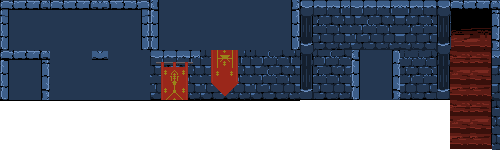
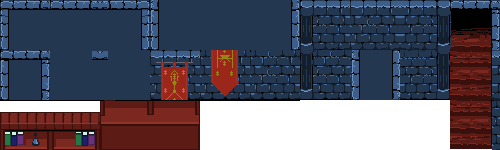
Added Cabinets and updated some other sprites.

Changed region(s): [[0.0, 0.6667, 0.42, 1.0]]

diff --git a/vince_mckeown/RPG/js/World.js b/vince_mckeown/RPG/js/World.js
@@ -10,8 +10,8 @@ var roomGrid =
       11,32,32,37,32, 0, 0, 0, 0,32,32,37,32,32,32,32,15, 0, 0, 0, 0, 0, 0, 0, 0, 0, 0, 0, 0, 0, 0, 9,
       11,40, 0, 0, 0, 0, 0, 0, 0, 0, 0, 0, 0, 0, 0, 0,15, 0, 0, 0, 0, 0, 0, 0, 0, 0, 0, 0, 0, 0, 0, 9,
       11,41, 1, 1, 1, 1, 1,24, 1, 1, 1, 1, 1, 1, 1, 1, 1, 0, 0, 0, 0, 0, 0, 0, 0, 0, 0, 0, 0, 0, 0, 9,
-      11,42,23,23,23,23,23,25,23,23,23,23,23,23,23,23,23, 0, 0, 0, 0, 0, 0, 0, 0, 0, 0, 0, 0, 0, 0, 9,
-      11, 0, 0, 0, 0, 0, 0, 0, 0, 0, 0, 0, 0, 0, 0, 0, 0, 0, 0, 0, 0, 0, 0, 0, 0, 0, 0, 0, 0, 0, 0, 9,
+      11,42,43,44,23,23,23,25,23,23,23,23,23,23,23,23,23, 0, 0, 0, 0, 0, 0, 0, 0, 0, 0, 0, 0, 0, 0, 9,
+      11, 0,45,46, 0, 0, 0, 0, 0, 0, 0, 0, 0, 0, 0, 0, 0, 0, 0, 0, 0, 0, 0, 0, 0, 0, 0, 0, 0, 0, 0, 9,
       11, 0, 0, 0, 0, 0, 0, 0, 0, 0, 0, 0, 0, 0, 0, 0, 0, 0, 0, 0, 0, 0, 0, 0, 0, 0, 0, 0, 0, 0, 0, 9,
       11, 0, 0, 0, 0, 0, 0, 0, 0, 0, 0, 0, 0, 0, 0, 0, 0, 0, 0, 0, 0, 0, 0, 0, 0, 0, 0, 0, 0, 0, 0, 9,
       11, 0, 0, 0, 0, 0, 0, 0, 0, 0, 0, 0, 0, 0, 0, 0, 0, 0, 0, 0, 0, 0, 0, 0, 0, 0, 0, 0, 0, 0, 0, 9,
@@ -71,8 +71,10 @@ const TILE_PRISON_GATE_BOTTOM_OPEN = 39;
 const TILE_DUNGEON_STAIRS_TOP_1 = 40;
 const TILE_DUNGEON_STAIRS_MIDDLE_1 = 41;
 const TILE_DUNGEON_STAIRS_BOTTOM_1 = 42;
-
-
+const TILE_CABINET_1_TL = 43;
+const TILE_CABINET_1_TR = 44;
+const TILE_CABINET_1_BL = 45;
+const TILE_CABINET_1_BR = 46;
 
 function roomTileToIndex(tileCol, tileRow) {
   return (tileCol + ROOM_COLS*tileRow);
@@ -115,6 +117,11 @@ function tileTypeHasTransparency(checkTileType) {
           checkTileType == TILE_DOOR);
 }
 
+function tileTypeHasDungeonWall(checkTileType){
+  return (checkTileType == TILE_CABINET_1_TL ||
+          checkTileType == TILE_CABINET_1_TR);
+}
+
 function findTileAboveCurrent(currentTile) {
   let tileAbove = currentTile - ROOM_COLS
   return tileAbove;
@@ -142,6 +149,10 @@ function drawRoom() {
       if( tileTypeHasTransparency(tileTypeHere) ) {
         canvasContext.drawImage(tilePics[TILE_GROUND].img, tileLeftEdgeX, tileTopEdgeY);
       }
+      if( tileTypeHasDungeonWall(tileTypeHere) ) {
+        canvasContext.drawImage(tilePics[TILE_WALL_16].img,250,50, 50, 50, tileLeftEdgeX, tileTopEdgeY, 50, 50);
+      }
+
       canvasContext.drawImage(tilePics[tileTypeHere].img,tile_sx,tile_sy, 50, 50, tileLeftEdgeX, tileTopEdgeY, 50, 50);
       
       tileIndex++; // increment which index we're going to next check for in the room

diff --git a/vince_mckeown/RPG/js/ImageLoading.js b/vince_mckeown/RPG/js/ImageLoading.js
@@ -35,8 +35,8 @@ function loadImages() {
     {varName:playerPic, theFile:"warrior.png"},
   	{varName:goblinPic, theFile:"goblin.png"},
     {varName:ghostPic, theFile:"ghost.png"},
-    //ROW 1
     {tileType:TILE_GROUND, imgX: 0, imgY: 0, theFile:"world_ground.png"},
+    //ROW 1
     {tileType:TILE_WALL_1, imgX: 0, imgY: 0, theFile:"dungeonWalls.png"},
     {tileType:TILE_WALL_2, imgX: 50, imgY: 0, theFile:"dungeonWalls.png"},
     {tileType:TILE_WALL_3, imgX: 100, imgY: 0, theFile:"dungeonWalls.png"},
@@ -57,7 +57,14 @@ function loadImages() {
     {tileType:TILE_WALL_10, imgX: 350, imgY: 50, theFile:"dungeonWalls.png"},
     {tileType:TILE_DUNGEON_STAIRS_MIDDLE_1, imgX: 450, imgY: 50, theFile:"dungeonWalls.png"},
     //ROW 3
+    {tileType:TILE_CABINET_1_TL, imgX: 0, imgY: 100, theFile:"dungeonWalls.png"},
+    {tileType:TILE_CABINET_1_TR, imgX: 50, imgY: 100, theFile:"dungeonWalls.png"},
+    {tileType:TILE_CABINET_1_BL, imgX: 100, imgY: 100, theFile:"dungeonWalls.png"},
+    {tileType:TILE_CABINET_1_BR, imgX: 150, imgY: 100, theFile:"dungeonWalls.png"},
     {tileType:TILE_DUNGEON_STAIRS_BOTTOM_1, imgX: 450, imgY: 100, theFile:"dungeonWalls.png"},
+    //END SPRITE SHEET
+    
+    
     {tileType:TILE_PRISON_WALL_1, imgX: 0, imgY: 0, theFile:"prisonWall_1.png"},
     {tileType:TILE_PRISON_WALL_2, imgX: 0, imgY: 0, theFile:"prisonWall_2.png"},
     {tileType:TILE_PRISON_WALL_3, imgX: 0, imgY: 0, theFile:"prisonWall_3.png"},

diff --git a/vince_mckeown/RPG/js/enemy.js b/vince_mckeown/RPG/js/enemy.js
@@ -33,12 +33,13 @@ function enemyClass() {
     //animation
     this.sx = 0;
     this.sy = 0;
-    this.swidth = 64;
-    this.sheight = 64
+    this.swidth = 50;
+    this.sheight = 50;
 
     this.init = function(whichGraphic, whichName) {
         this.myBitmap = whichGraphic;
         this.myName = whichName;
+        console.log(this.myBitmap)
         this.reset();
     }
 
@@ -225,8 +226,7 @@ function enemyClass() {
 
     this.draw = function() {
         //	this.animate();
-		this.
-        canvasContext.drawImage(this.myBitmap, this.sx, this.sy, this.swidth, this.sheight, this.x, this.y, 50, 50);
+        canvasContext.drawImage(this.myBitmap,this.sx,this.sy, this.swidth, this.sheight, this.x, this.y, 50, 50);
     }
 
 } // end of class
